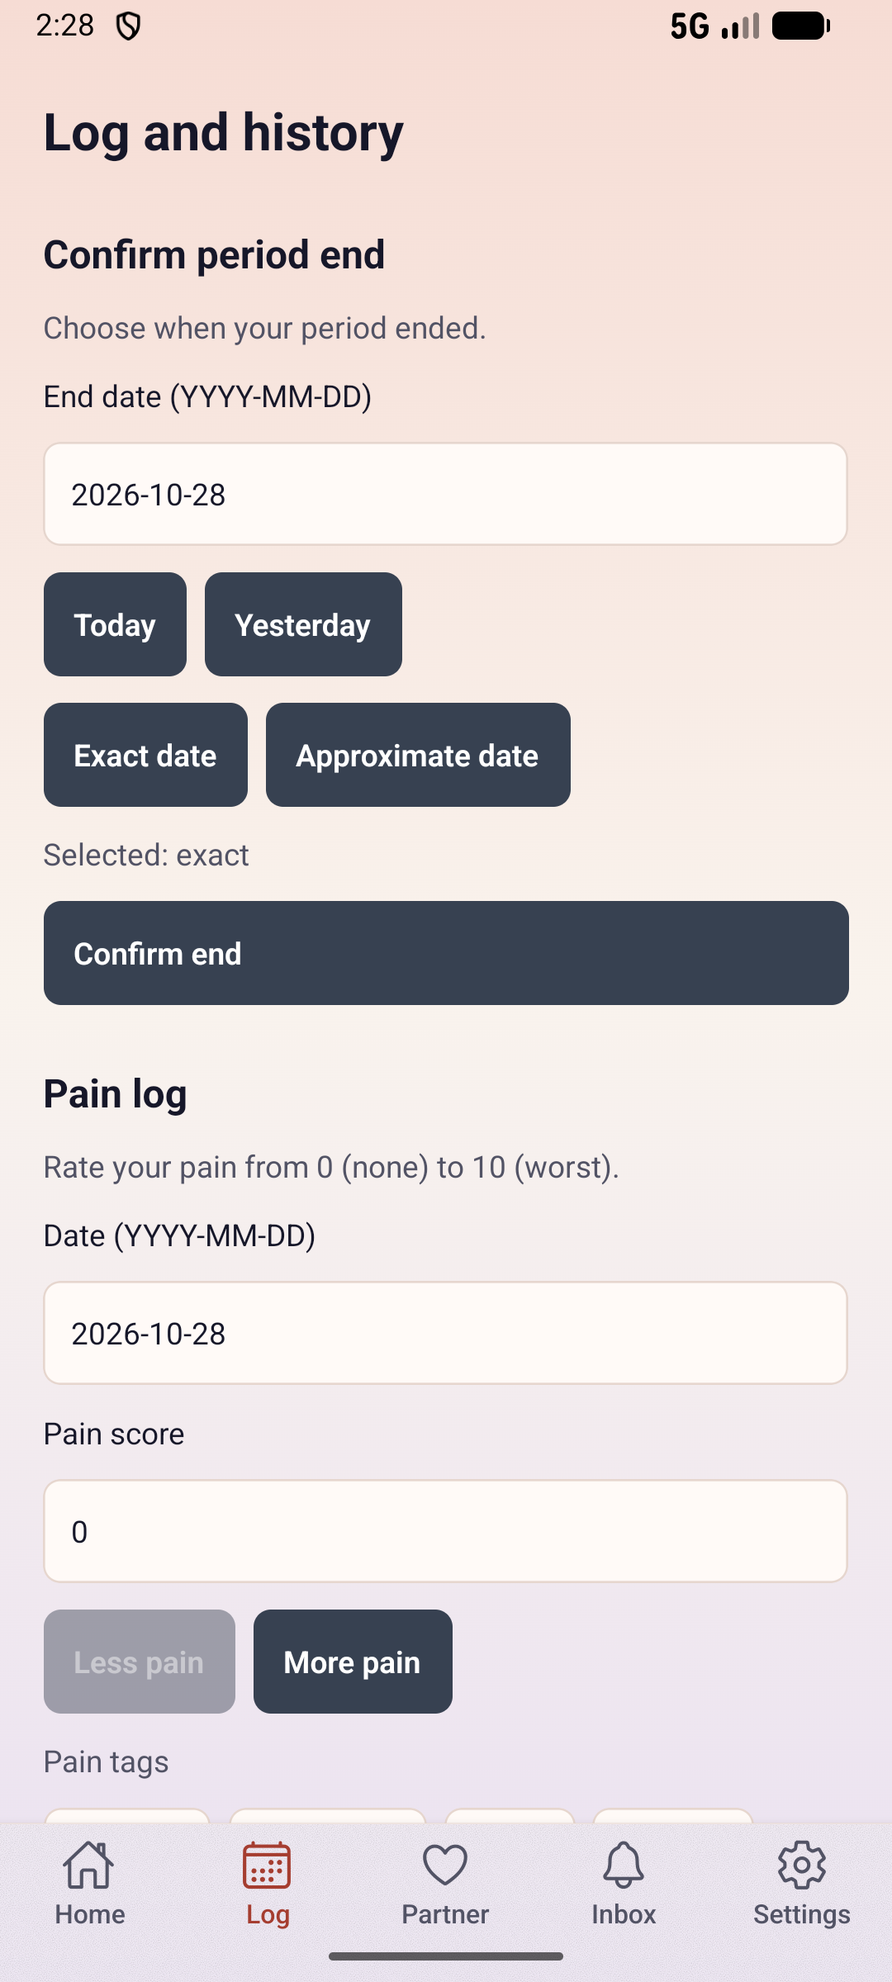
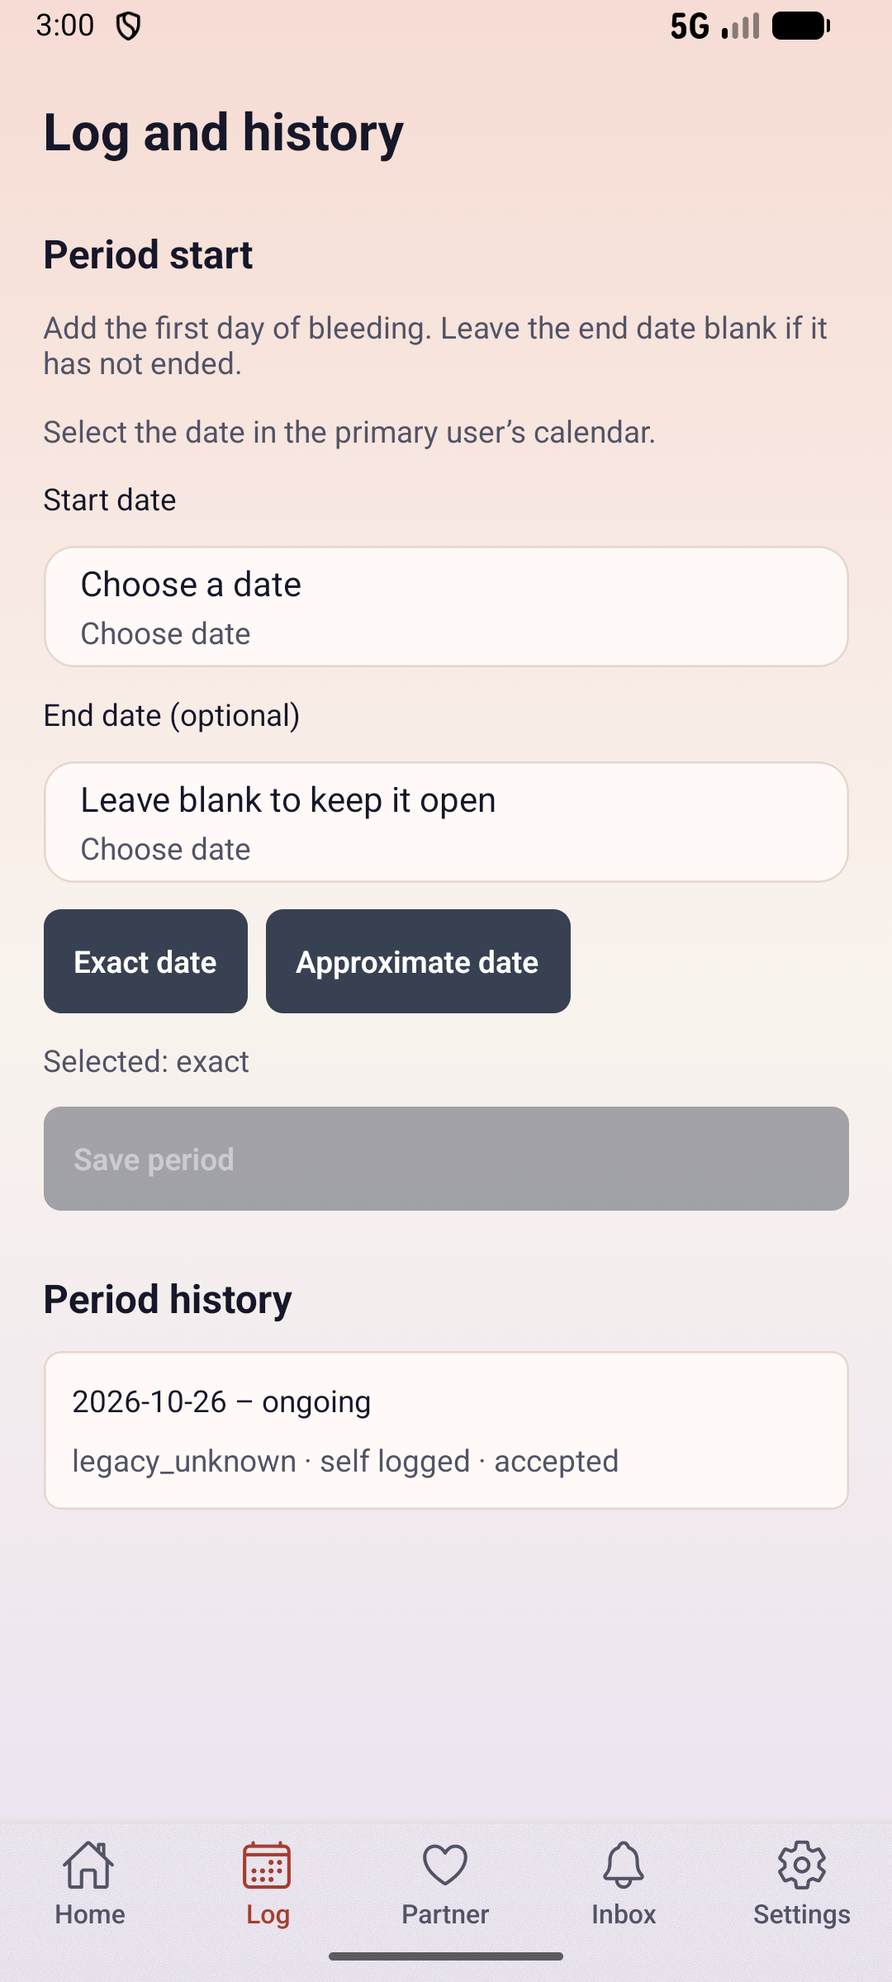
feat(mobile): use native date pickers for cycle logging

diff --git a/apps/mobile/src/features/logging/LoggingScreen.tsx b/apps/mobile/src/features/logging/LoggingScreen.tsx
@@ -6,6 +6,7 @@ import { loggingApi } from "./loggingApi";
 import { AccessContext } from "../../navigation/accessContext";
 import { mobileColors } from "../../theme/tokens";
 import { dateDaysAgo, isValidTimeZone, localDate, loggingErrorMessage, periodSuccessMessage } from "./logging";
+import { DateField } from "./DateField";
 
 function Action({ label, onPress, disabled }: { label: string; onPress: () => void; disabled: boolean }) {
   return <Pressable accessibilityRole="button" accessibilityLabel={label} disabled={disabled} onPress={onPress} style={[styles.button, disabled && styles.disabled]}><Text style={styles.buttonText}>{label}</Text></Pressable>;
@@ -107,10 +108,10 @@ export function LoggingScreen() {
     <Text accessibilityRole="header" style={[styles.heading, { color: palette.foreground }]}>{openPeriod ? "Confirm period end" : "Period start"}</Text>
     <Text style={{ color: palette.muted }}>{openPeriod ? "Choose when your period ended." : "Add the first day of bleeding. Leave the end date blank if it has not ended."}</Text>
     {role === "partner" ? <Text style={{ color: palette.muted }}>Select the date in the primary user’s calendar.</Text> : null}
-    <Text style={{ color: palette.foreground }}>{openPeriod ? "End date" : "Start date"} (YYYY-MM-DD)</Text>
-    <TextInput accessibilityLabel={openPeriod ? "Period end date, YYYY-MM-DD" : "Period start date, YYYY-MM-DD"} value={selectedStartDate} onChangeText={setStartDate} autoCapitalize="none" style={[styles.input, { color: palette.foreground, backgroundColor: palette.surface, borderColor: palette.border }]} />
+    <Text style={{ color: palette.foreground }}>{openPeriod ? "End date" : "Start date"}</Text>
+    <DateField label={openPeriod ? "Period end date" : "Period start date"} value={selectedStartDate} onChange={setStartDate} palette={palette} disabled={disabledPeriod} maximumDate={today ?? undefined} minimumDate={openPeriod?.startDate} />
     {role === "primary" && today && timeZone ? <View style={styles.row}><Action label="Today" disabled={disabledPeriod} onPress={() => setStartDate(today)} /><Action label="Yesterday" disabled={disabledPeriod} onPress={() => setStartDate(dateDaysAgo(1, now, timeZone))} /></View> : null}
-    {!openPeriod ? <><Text style={{ color: palette.foreground }}>End date (optional)</Text><TextInput accessibilityLabel="Optional period end date, YYYY-MM-DD" value={endDate} onChangeText={setEndDate} placeholder="Leave blank to keep it open" placeholderTextColor={palette.muted} style={[styles.input, { color: palette.foreground, backgroundColor: palette.surface, borderColor: palette.border }]} /></> : null}
+    {!openPeriod ? <><Text style={{ color: palette.foreground }}>End date (optional)</Text><DateField label="Optional period end date" value={endDate} onChange={setEndDate} palette={palette} disabled={disabledPeriod} placeholder="Leave blank to keep it open" maximumDate={today ?? undefined} minimumDate={selectedStartDate || undefined} clearable /></> : null}
     <View style={styles.row}><Action label="Exact date" disabled={disabledPeriod} onPress={() => setCertainty("exact")} /><Action label="Approximate date" disabled={disabledPeriod} onPress={() => setCertainty("approximate")} /></View>
     <Text accessibilityLabel={`Selected certainty: ${certainty}`} style={{ color: palette.muted }}>Selected: {certainty}</Text>
     <Action label={openPeriod ? "Confirm end" : "Save period"} disabled={disabledPeriod || !selectedStartDate.trim()} onPress={savePeriod} />
@@ -118,8 +119,8 @@ export function LoggingScreen() {
     {role === "primary" ? <>
       <Text accessibilityRole="header" style={[styles.heading, { color: palette.foreground }]}>Pain log</Text>
       <Text style={{ color: palette.muted }}>Rate your pain from 0 (none) to 10 (worst).</Text>
-      <Text style={{ color: palette.foreground }}>Date (YYYY-MM-DD)</Text>
-      <TextInput accessibilityLabel="Pain log date, YYYY-MM-DD" value={selectedPainDate} onChangeText={setPainDate} style={[styles.input, { color: palette.foreground, backgroundColor: palette.surface, borderColor: palette.border }]} />
+      <Text style={{ color: palette.foreground }}>Date</Text>
+      <DateField label="Pain log date" value={selectedPainDate} onChange={setPainDate} palette={palette} disabled={disabledPain} maximumDate={today ?? undefined} />
       <Text style={{ color: palette.foreground }}>Pain score</Text>
       <TextInput accessibilityLabel="Pain score from 0 to 10" keyboardType="number-pad" value={painScore} onChangeText={setPainScore} style={[styles.input, { color: palette.foreground, backgroundColor: palette.surface, borderColor: palette.border }]} />
       <View style={styles.row}>
@@ -143,8 +144,8 @@ export function LoggingScreen() {
       <Text style={{ color: palette.foreground }}>{period.startDate}{period.endDate ? ` – ${period.endDate}` : " – ongoing"}</Text>
       <Text style={{ color: palette.muted }}>{period.certainty} · {period.source === "partner_assist" ? `assisted by ${period.createdByName}` : period.source === "self" ? "self logged" : "legacy record"}{period.confirmationStatus === "unreviewed" ? " · needs review" : " · accepted"}</Text>
       {period.canCorrect && period._id && period.authorityVersion !== undefined ? editing === period._id ? <>
-        <TextInput accessibilityLabel="Corrected period start date, YYYY-MM-DD" value={editStartDate} onChangeText={setEditStartDate} style={[styles.input, { color: palette.foreground, backgroundColor: palette.surface, borderColor: palette.border }]} />
-        <TextInput accessibilityLabel="Corrected period end date, YYYY-MM-DD" value={editEndDate} onChangeText={setEditEndDate} placeholder="End date (blank means open)" style={[styles.input, { color: palette.foreground, backgroundColor: palette.surface, borderColor: palette.border }]} />
+        <DateField label="Corrected period start date" value={editStartDate} onChange={setEditStartDate} palette={palette} disabled={disabledPeriod} maximumDate={today ?? undefined} />
+        <DateField label="Corrected period end date" value={editEndDate} onChange={setEditEndDate} palette={palette} disabled={disabledPeriod} placeholder="End date (blank means open)" maximumDate={today ?? undefined} minimumDate={editStartDate || undefined} clearable />
         <Action label="Save correction" disabled={disabledPeriod} onPress={() => correct(period)} />
         <Action label="Cancel correction" disabled={busy} onPress={() => setEditing(null)} />
       </> : <Action label="Correct period" disabled={disabledPeriod} onPress={() => { setEditing(period._id!); setEditStartDate(period.startDate); setEditEndDate(period.endDate ?? ""); }} /> : null}

diff --git a/apps/mobile/src/features/logging/LoggingScreen.test.tsx b/apps/mobile/src/features/logging/LoggingScreen.test.tsx
@@ -32,6 +32,7 @@ vi.mock("react", async (importOriginal) => {
 });
 
 vi.mock("react-native", () => ({
+  Platform: { OS: "android" },
   Pressable: "Pressable",
   ScrollView: "ScrollView",
   StyleSheet: { create: (styles: object) => styles },
@@ -41,6 +42,8 @@ vi.mock("react-native", () => ({
   useColorScheme: () => runtime.scheme,
 }));
 
+vi.mock("@react-native-community/datetimepicker", () => ({ default: "DateTimePicker" }));
+
 vi.mock("convex/react", () => ({
   useConvexConnectionState: () => ({ isWebSocketConnected: runtime.connection }),
   useQuery: () => runtime.queries.shift(),
@@ -48,6 +51,7 @@ vi.mock("convex/react", () => ({
 }));
 
 import React from "react";
+import { DateField } from "./DateField";
 import { LoggingScreen } from "./LoggingScreen";
 import { localDate } from "./logging";
 
@@ -104,6 +108,12 @@ function inputValue(tree: React.ReactNode, label: string) {
   return (found.props as { value: string }).value;
 }
 
+function dateField(tree: React.ReactNode, label: string) {
+  const found = find(tree, (element) => element.type === DateField && (element.props as { label?: string }).label === label);
+  if (!found) throw new Error(`Missing date field: ${label}`);
+  return found.props as { value: string; onChange: (value: string) => void; palette: { surface: string; foreground: string } };
+}
+
 function textContent(node: React.ReactNode): string {
   return React.Children.toArray(node).map((child) => React.isValidElement(child)
     ? textContent((child.props as { children?: React.ReactNode }).children)
@@ -146,7 +156,7 @@ describe("LoggingScreen actions", () => {
     let tree = render();
     await button(tree, "Yesterday")();
     tree = render();
-    expect(inputValue(tree, "Period start date, YYYY-MM-DD")).toBe("2026-10-26");
+    expect(dateField(tree, "Period start date").value).toBe("2026-10-26");
     runtime.access = "partner";
     tree = render();
     expect(find(tree, (element) => element.type === "Pressable" && (element.props as { accessibilityLabel?: string }).accessibilityLabel === "Yesterday")).toBeUndefined();
@@ -169,9 +179,10 @@ describe("LoggingScreen actions", () => {
       runtime.scheme = scheme;
       runtime.periods = openPeriod;
       const tree = render();
-      const dateInput = find(tree, (element) => element.type === "TextInput" && (element.props as { accessibilityLabel?: string }).accessibilityLabel === "Period end date, YYYY-MM-DD");
+      const date = dateField(tree, "Period end date");
       const historyCard = find(tree, (element) => element.type === "View" && Array.isArray((element.props as { style?: unknown }).style) && ((element.props as { style: unknown[] }).style).some((style) => Boolean(style && typeof style === "object" && "backgroundColor" in style)));
-      expect((dateInput?.props as { style: unknown[] }).style).toContainEqual(expect.objectContaining({ backgroundColor: background, color: foreground }));
+      expect(date.palette.surface).toBe(background);
+      expect(date.palette.foreground).toBe(foreground);
       expect((historyCard?.props as { style: unknown[] }).style).toContainEqual(expect.objectContaining({ backgroundColor: background }));
     }
   });
@@ -193,7 +204,7 @@ describe("LoggingScreen actions", () => {
   it("reports a partial start/end write without claiming the end was saved", async () => {
     endSelf.mockRejectedValueOnce(new Error("EXACT_INTERVAL_OVERLAP"));
     const tree = render();
-    input(tree, "Optional period end date, YYYY-MM-DD")("2026-10-24");
+    dateField(tree, "Optional period end date").onChange("2026-10-24");
     const ready = render();
     await button(ready, "Save period")();
 
@@ -212,7 +223,7 @@ describe("LoggingScreen actions", () => {
       expect(savedAccountTimeZone).not.toBe(Intl.DateTimeFormat().resolvedOptions().timeZone);
 
       const tree = render();
-      input(tree, "Pain log date, YYYY-MM-DD")("2026-01-02");
+      dateField(tree, "Pain log date").onChange("2026-01-02");
       input(render(), "Pain score from 0 to 10")("6");
       await button(render(), "Save pain log")();
 
@@ -243,7 +254,7 @@ describe("LoggingScreen actions", () => {
     expect(buttonIsDisabled(tree, "Confirm end")).toBe(true);
     expect(buttonIsDisabled(tree, "Save pain log")).toBe(true);
     expect(buttonIsDisabled(tree, "Correct period")).toBe(true);
-    expect(inputValue(tree, "Period end date, YYYY-MM-DD")).toBe("");
+    expect(dateField(tree, "Period end date").value).toBe("");
     await button(tree, "Confirm end")();
     await button(tree, "Save pain log")();
     expect(endSelf).not.toHaveBeenCalled();
@@ -274,7 +285,7 @@ describe("LoggingScreen actions", () => {
     vi.useFakeTimers();
     vi.setSystemTime(new Date("2026-10-26T20:00:00.000Z"));
     runtime.account = { timeZone: "Asia/Kolkata" };
-    expect(inputValue(render(), "Period start date, YYYY-MM-DD")).toBe("2026-10-27");
+    expect(dateField(render(), "Period start date").value).toBe("2026-10-27");
   });
 
   it("requires a partner to enter a date instead of defaulting to the partner calendar", async () => {
@@ -287,9 +298,9 @@ describe("LoggingScreen actions", () => {
     expect(localDate(new Date(), "America/Los_Angeles")).toBe(primaryToday);
 
     let tree = render();
-    expect(inputValue(tree, "Period start date, YYYY-MM-DD")).toBe("");
+    expect(dateField(tree, "Period start date").value).toBe("");
     expect(buttonIsDisabled(tree, "Save period")).toBe(true);
-    input(tree, "Period start date, YYYY-MM-DD")(primaryToday);
+    dateField(tree, "Period start date").onChange(primaryToday);
     tree = render();
     await button(tree, "Save period")();
 

diff --git a/apps/mobile/src/features/logging/DateField.tsx b/apps/mobile/src/features/logging/DateField.tsx
@@ -1,0 +1,84 @@
+import { useState } from "react";
+import { Platform, Pressable, StyleSheet, Text, View } from "react-native";
+import DateTimePicker, { type DateTimePickerEvent } from "@react-native-community/datetimepicker";
+import { mobileColors } from "../../theme/tokens";
+import { formatLocalDateOnly, parseDateOnly } from "./dateOnly";
+
+type DateFieldProps = {
+  label: string;
+  value: string;
+  onChange: (value: string) => void;
+  palette: typeof mobileColors.light | typeof mobileColors.dark;
+  disabled?: boolean;
+  placeholder?: string;
+  maximumDate?: string;
+  minimumDate?: string;
+  clearable?: boolean;
+};
+
+export function DateField({
+  label,
+  value,
+  onChange,
+  palette,
+  disabled = false,
+  placeholder = "Choose a date",
+  maximumDate,
+  minimumDate,
+  clearable = false,
+}: DateFieldProps): React.JSX.Element {
+  const [open, setOpen] = useState(false);
+  const pickerValue = parseDateOnly(value) ?? parseDateOnly(maximumDate ?? "") ?? new Date();
+  const handleChange = (event: DateTimePickerEvent, date?: Date) => {
+    if (event.type === "set" && date) onChange(formatLocalDateOnly(date));
+    if (Platform.OS === "android" || event.type !== "set") setOpen(false);
+  };
+
+  return (
+    <View style={styles.container}>
+      <View style={styles.row}>
+        <Pressable
+          accessibilityRole="button"
+          accessibilityLabel={`${label}: ${value || placeholder}`}
+          disabled={disabled}
+          onPress={() => setOpen(true)}
+          style={[styles.control, { backgroundColor: palette.surface, borderColor: palette.border }]}
+        >
+          <Text style={{ color: palette.foreground, fontSize: 16 }}>{value || placeholder}</Text>
+          <Text style={{ color: palette.muted, fontSize: 14 }}>Choose date</Text>
+        </Pressable>
+        {clearable && value ? (
+          <Pressable accessibilityRole="button" accessibilityLabel={`Clear ${label}`} disabled={disabled} onPress={() => onChange("")} style={styles.clear}>
+            <Text style={{ color: palette.accent, fontWeight: "600" }}>Clear</Text>
+          </Pressable>
+        ) : null}
+      </View>
+      {open ? (
+        <View style={Platform.OS === "ios" ? [styles.iosPicker, { backgroundColor: palette.glass, borderColor: palette.border }] : undefined}>
+          <DateTimePicker
+            mode="date"
+            display={Platform.OS === "ios" ? "spinner" : "default"}
+            value={pickerValue}
+            maximumDate={parseDateOnly(maximumDate ?? "") ?? undefined}
+            minimumDate={parseDateOnly(minimumDate ?? "") ?? undefined}
+            onChange={handleChange}
+          />
+          {Platform.OS === "ios" ? (
+            <Pressable accessibilityRole="button" onPress={() => setOpen(false)} style={styles.done}>
+              <Text style={{ color: palette.accent, fontWeight: "700" }}>Done</Text>
+            </Pressable>
+          ) : null}
+        </View>
+      ) : null}
+    </View>
+  );
+}
+
+const styles = StyleSheet.create({
+  container: { gap: 8 },
+  row: { flexDirection: "row", alignItems: "center", gap: 8 },
+  control: { minHeight: 56, flex: 1, justifyContent: "center", gap: 2, borderWidth: 1, borderRadius: 14, paddingHorizontal: 16 },
+  clear: { minHeight: 48, justifyContent: "center", paddingHorizontal: 8 },
+  iosPicker: { borderWidth: 1, borderRadius: 18, overflow: "hidden", paddingBottom: 8 },
+  done: { minHeight: 48, alignItems: "flex-end", justifyContent: "center", paddingHorizontal: 16 },
+});

diff --git a/apps/mobile/src/features/logging/logging.test.tsx b/apps/mobile/src/features/logging/logging.test.tsx
@@ -3,6 +3,7 @@ import { describe, expect, it } from "vitest";
 import { dateDaysAgo, isValidTimeZone, localDate, loggingErrorMessage, periodSuccessMessage } from "./logging";
 
 const source = readFileSync(new URL("./LoggingScreen.tsx", import.meta.url), "utf8");
+const dateFieldSource = readFileSync(new URL("./DateField.tsx", import.meta.url), "utf8");
 
 describe("mobile logging safety", () => {
   it("renders backend duplicate, overlap, future and stale-authority failures as safe guidance", () => {
@@ -28,7 +29,9 @@ describe("mobile logging safety", () => {
     expect(source).toContain("if (!online) throw new Error(\"offline\")");
     expect(source).toContain("Nothing can be saved until your connection returns.");
     expect(source).toContain("accessibilityRole=\"button\"");
-    expect(source).toContain("accessibilityLabel={openPeriod ? \"Period end date");
+    expect(source).toContain('<DateField label={openPeriod ? "Period end date" : "Period start date"}');
+    expect(dateFieldSource).toContain("accessibilityRole=\"button\"");
+    expect(dateFieldSource).toContain("accessibilityLabel={`${label}: ${value || placeholder}`}");
     expect(source).toContain("accessibilityRole=\"alert\"");
   });
 

diff --git a/apps/mobile/src/features/logging/dateOnly.ts b/apps/mobile/src/features/logging/dateOnly.ts
@@ -1,0 +1,15 @@
+export function parseDateOnly(value: string): Date | null {
+  const match = /^(\d{4})-(\d{2})-(\d{2})$/.exec(value);
+  if (!match) return null;
+  const date = new Date(0);
+  date.setHours(12, 0, 0, 0);
+  date.setFullYear(Number(match[1]), Number(match[2]) - 1, Number(match[3]));
+  return formatLocalDateOnly(date) === value ? date : null;
+}
+
+export function formatLocalDateOnly(date: Date): string {
+  const year = date.getFullYear().toString().padStart(4, "0");
+  const month = (date.getMonth() + 1).toString().padStart(2, "0");
+  const day = date.getDate().toString().padStart(2, "0");
+  return `${year}-${month}-${day}`;
+}

diff --git a/apps/mobile/src/features/logging/dateOnly.test.ts b/apps/mobile/src/features/logging/dateOnly.test.ts
@@ -1,0 +1,15 @@
+import { describe, expect, it } from "vitest";
+import { formatLocalDateOnly, parseDateOnly } from "./dateOnly";
+
+describe("date-only picker values", () => {
+  it("round-trips valid calendar dates without UTC day shifts", () => {
+    const date = parseDateOnly("2024-02-29");
+    expect(date).not.toBeNull();
+    expect(formatLocalDateOnly(date!)).toBe("2024-02-29");
+  });
+
+  it("rejects malformed and impossible dates", () => {
+    expect(parseDateOnly("2026-02-30")).toBeNull();
+    expect(parseDateOnly("2026/02/28")).toBeNull();
+  });
+});

diff --git a/apps/mobile/app.config.ts b/apps/mobile/app.config.ts
@@ -7,7 +7,7 @@ const config: ExpoConfig = {
   scheme: "cbconnectbeta",
   version: "0.0.1",
   orientation: "portrait",
-  plugins: ["expo-router", "expo-secure-store", "@clerk/expo", "expo-font"],
+  plugins: ["expo-router", "expo-secure-store", "@clerk/expo", "expo-font", "@react-native-community/datetimepicker"],
   ios: { bundleIdentifier: "tech.builtbynaki.cbconnect.beta" },
   android: { package: "tech.builtbynaki.cbconnect.beta" },
   extra: { mobileEnvironment: "isolated-development-only" },

diff --git a/docs/plans/2026-10-27-mobile-ux-parity.md b/docs/plans/2026-10-27-mobile-ux-parity.md
@@ -5,7 +5,7 @@ Baseline: `b851ff19c93810b7c29cab0386fb2a245030829e`. The matrix records source-
 | Journey | Mobile coverage | Remaining gap |
 | --- | --- | --- |
 | Cycle home | Server-derived cycle state and prediction, with a log shortcut | Web nutrition and pain guidance and partner care actions are absent. |
-| Logging and history | Period start/end, pain, history and authorized correction; primary date shortcuts | Dates are still text fields; pain uses a numeric input and stepper; history is not the web timeline and CSV export is absent. Deletion remains blocked by D-012. |
+| Logging and history | Period start/end, pain, history and authorized correction; primary date shortcuts and native date picker | Pain uses a numeric input with a stepper; history is not the web timeline and CSV export is absent. Deletion remains blocked by D-012. |
 | Partner and chat | Pairing, presence, sharing controls, revoke, nudges and chat | Relationship date, nickname, native code sharing and chat clearing are absent. Replacement-partner isolation remains subject to D-018. |
 | Inbox | Server-gated inbox, read/dismiss and partner/settings navigation | Inbox availability is default-off; push is not implemented. |
 | Settings | Name, time zone, notification preferences, prediction pause and baseline, sharing | Cycle and period lengths and other web personalization controls are absent. |
@@ -18,6 +18,7 @@ Baseline: `b851ff19c93810b7c29cab0386fb2a245030829e`. The matrix records source-
 - **PASS:** Android 17 emulator sign-in with the persistent synthetic primary and partner accounts; role onboarding; primary-to-partner pairing; same-device account switching.
 - **PASS:** Native partner chat send followed by partner-session readback (`Read` confirmation). The message appears in the evidence screenshots.
 - **PASS:** Period logging screen, partner sharing controls, and settings navigation render on the device.
+- **PASS:** Android's native date picker opens, constrains future dates, and applies the selected period date; this check did not submit a write.
 - **BLOCKED by test backend availability:** Home receives no cycle-state presentation for either role, and Inbox says access is unavailable. Mobile shows the safe empty state and does not synthesize health predictions.
 - **NOT RUN:** Physical-device and screen-capture privacy qualification. Both are explicitly outside this PR's scope.
 

diff --git a/docs/evidence/mobile-ux/README.md b/docs/evidence/mobile-ux/README.md
@@ -5,11 +5,14 @@ Captured 2026-10-28 from the candidate Expo app on the existing Android 17 emula
 | Screenshot | What it shows |
 | --- | --- |
 | `00-home-backend-state-unavailable.png` | Home's backend-authoritative empty state. The approved test backend returned no cycle presentation for either role. |
-| `01-log-history.png` | Period-end confirmation and pain check-in controls with synthetic data. |
+| `01-log-history.png` | Period and pain logging with native date controls and synthetic history. |
 | `02-partner-sharing-controls.png` | Connected partner, sharing choices, revocation, and nudge actions. |
 | `03-partner-chat-server-confirmed.png` | The primary account's message after the server confirmed the send. |
 | `04-inbox-test-backend-unavailable.png` | Inbox's explicit unavailable state from the approved test backend. |
 | `05-settings-controls.png` | Settings, private prediction controls, sharing choices, and the retention-policy limitation. |
 | `06-partner-message-readback.png` | The partner account displaying the same message with `Read` status. |
+| `07-native-date-picker.png` | Android's native date picker opened from the period log. |
 
 These are native emulator product screenshots and synthetic journey evidence. Home and Inbox limitations are shown as observed; no health state is fabricated to make the screenshots appear populated.
+
+The period date picker was opened and a date selection was applied on the Android 17 emulator. No period write was submitted during that check.
